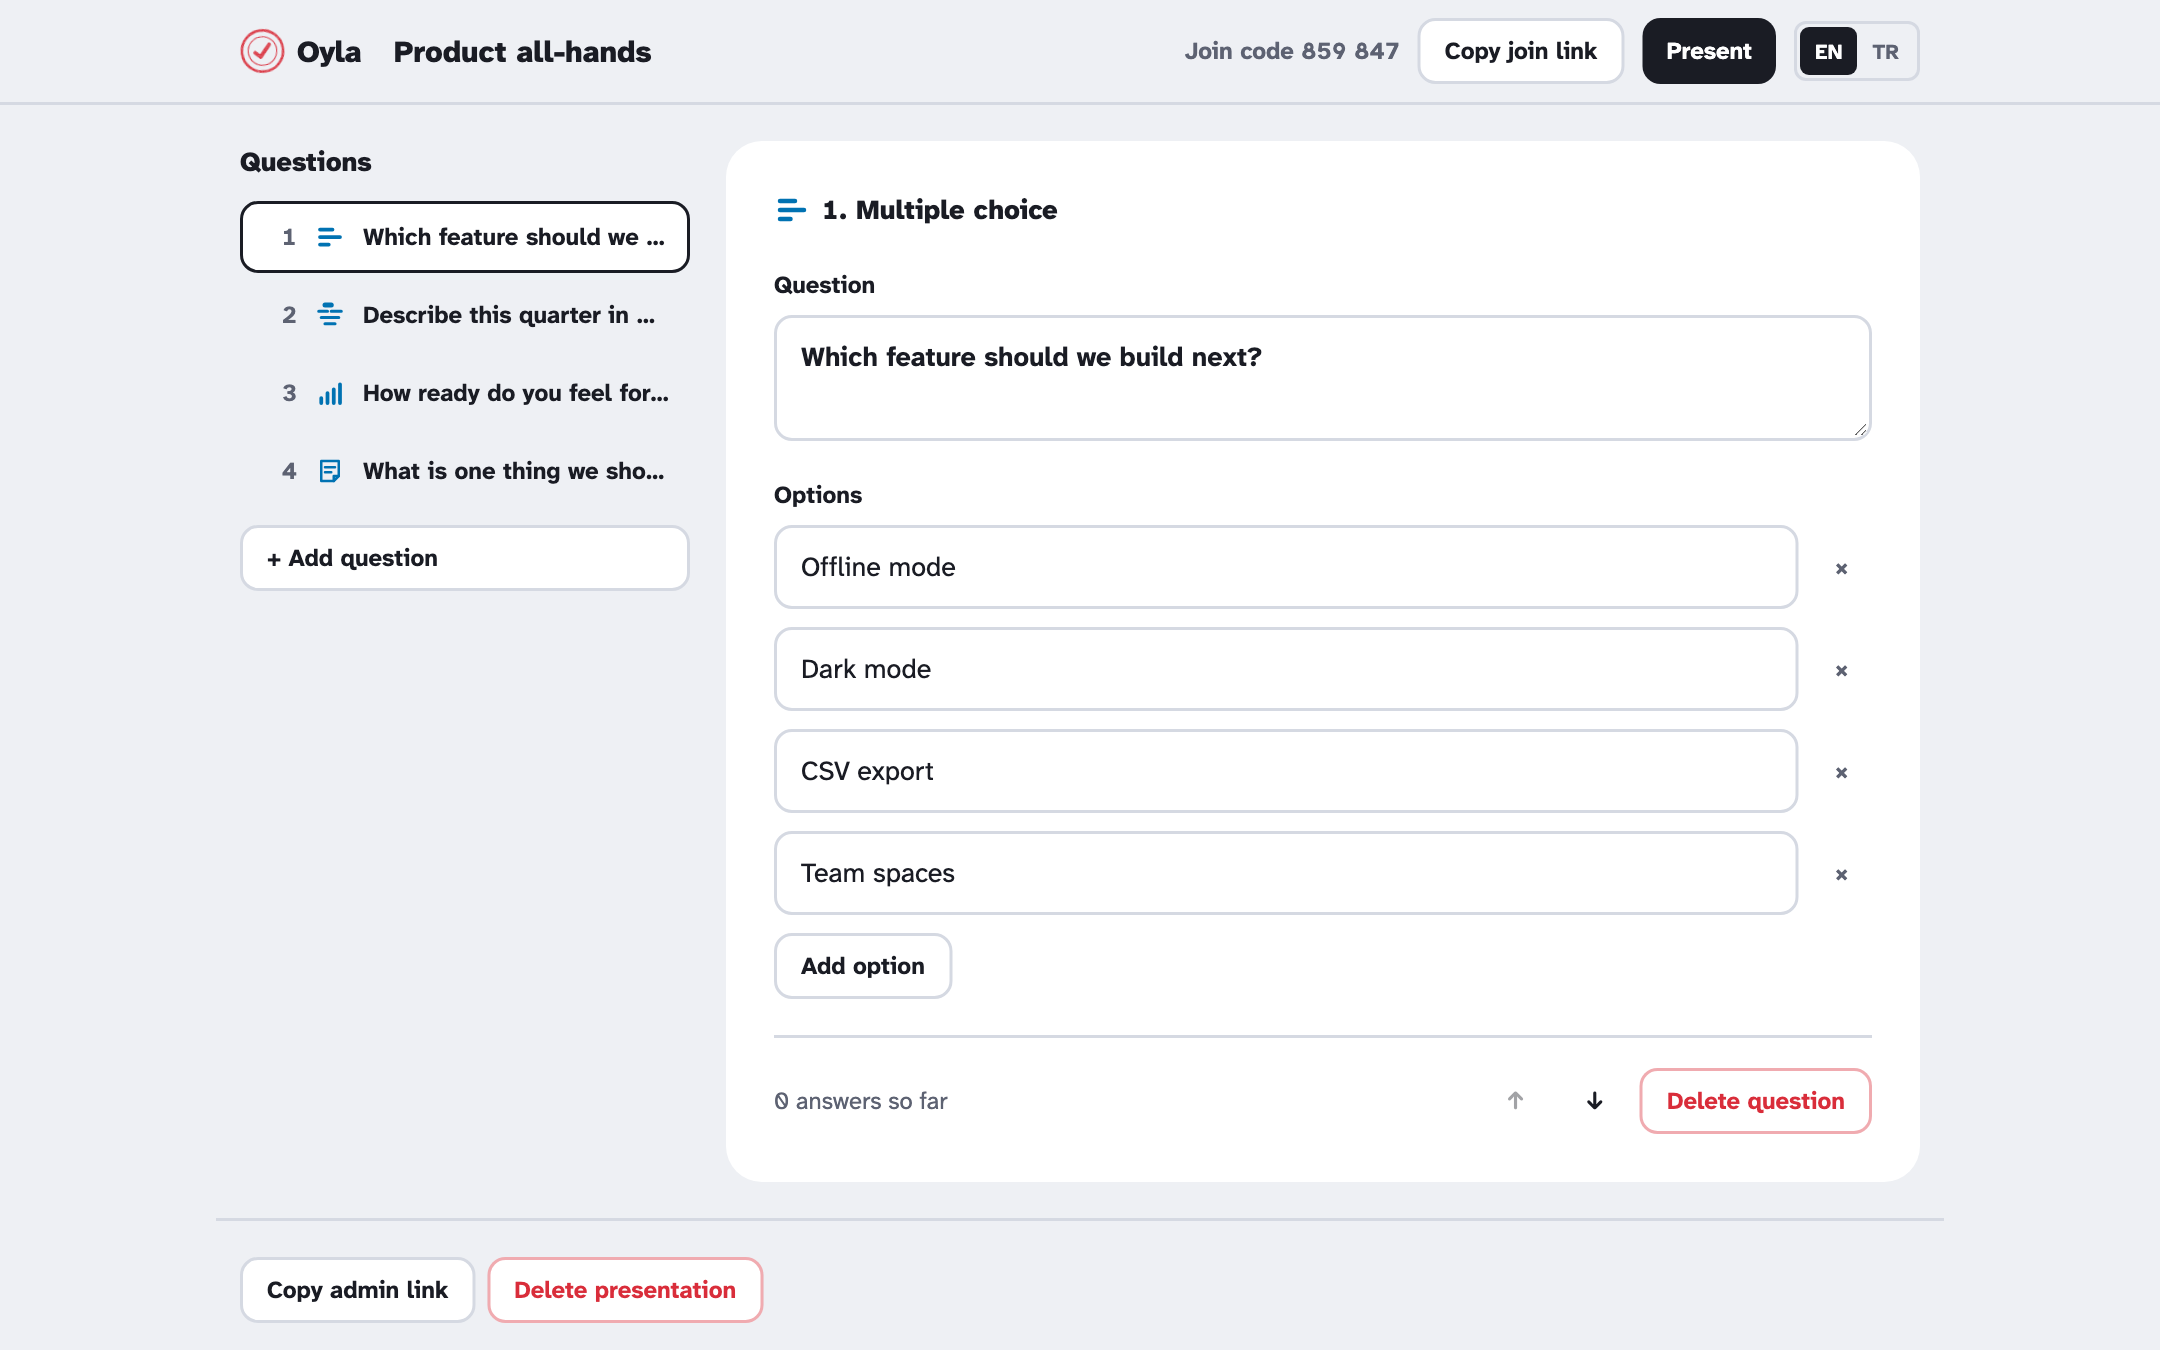
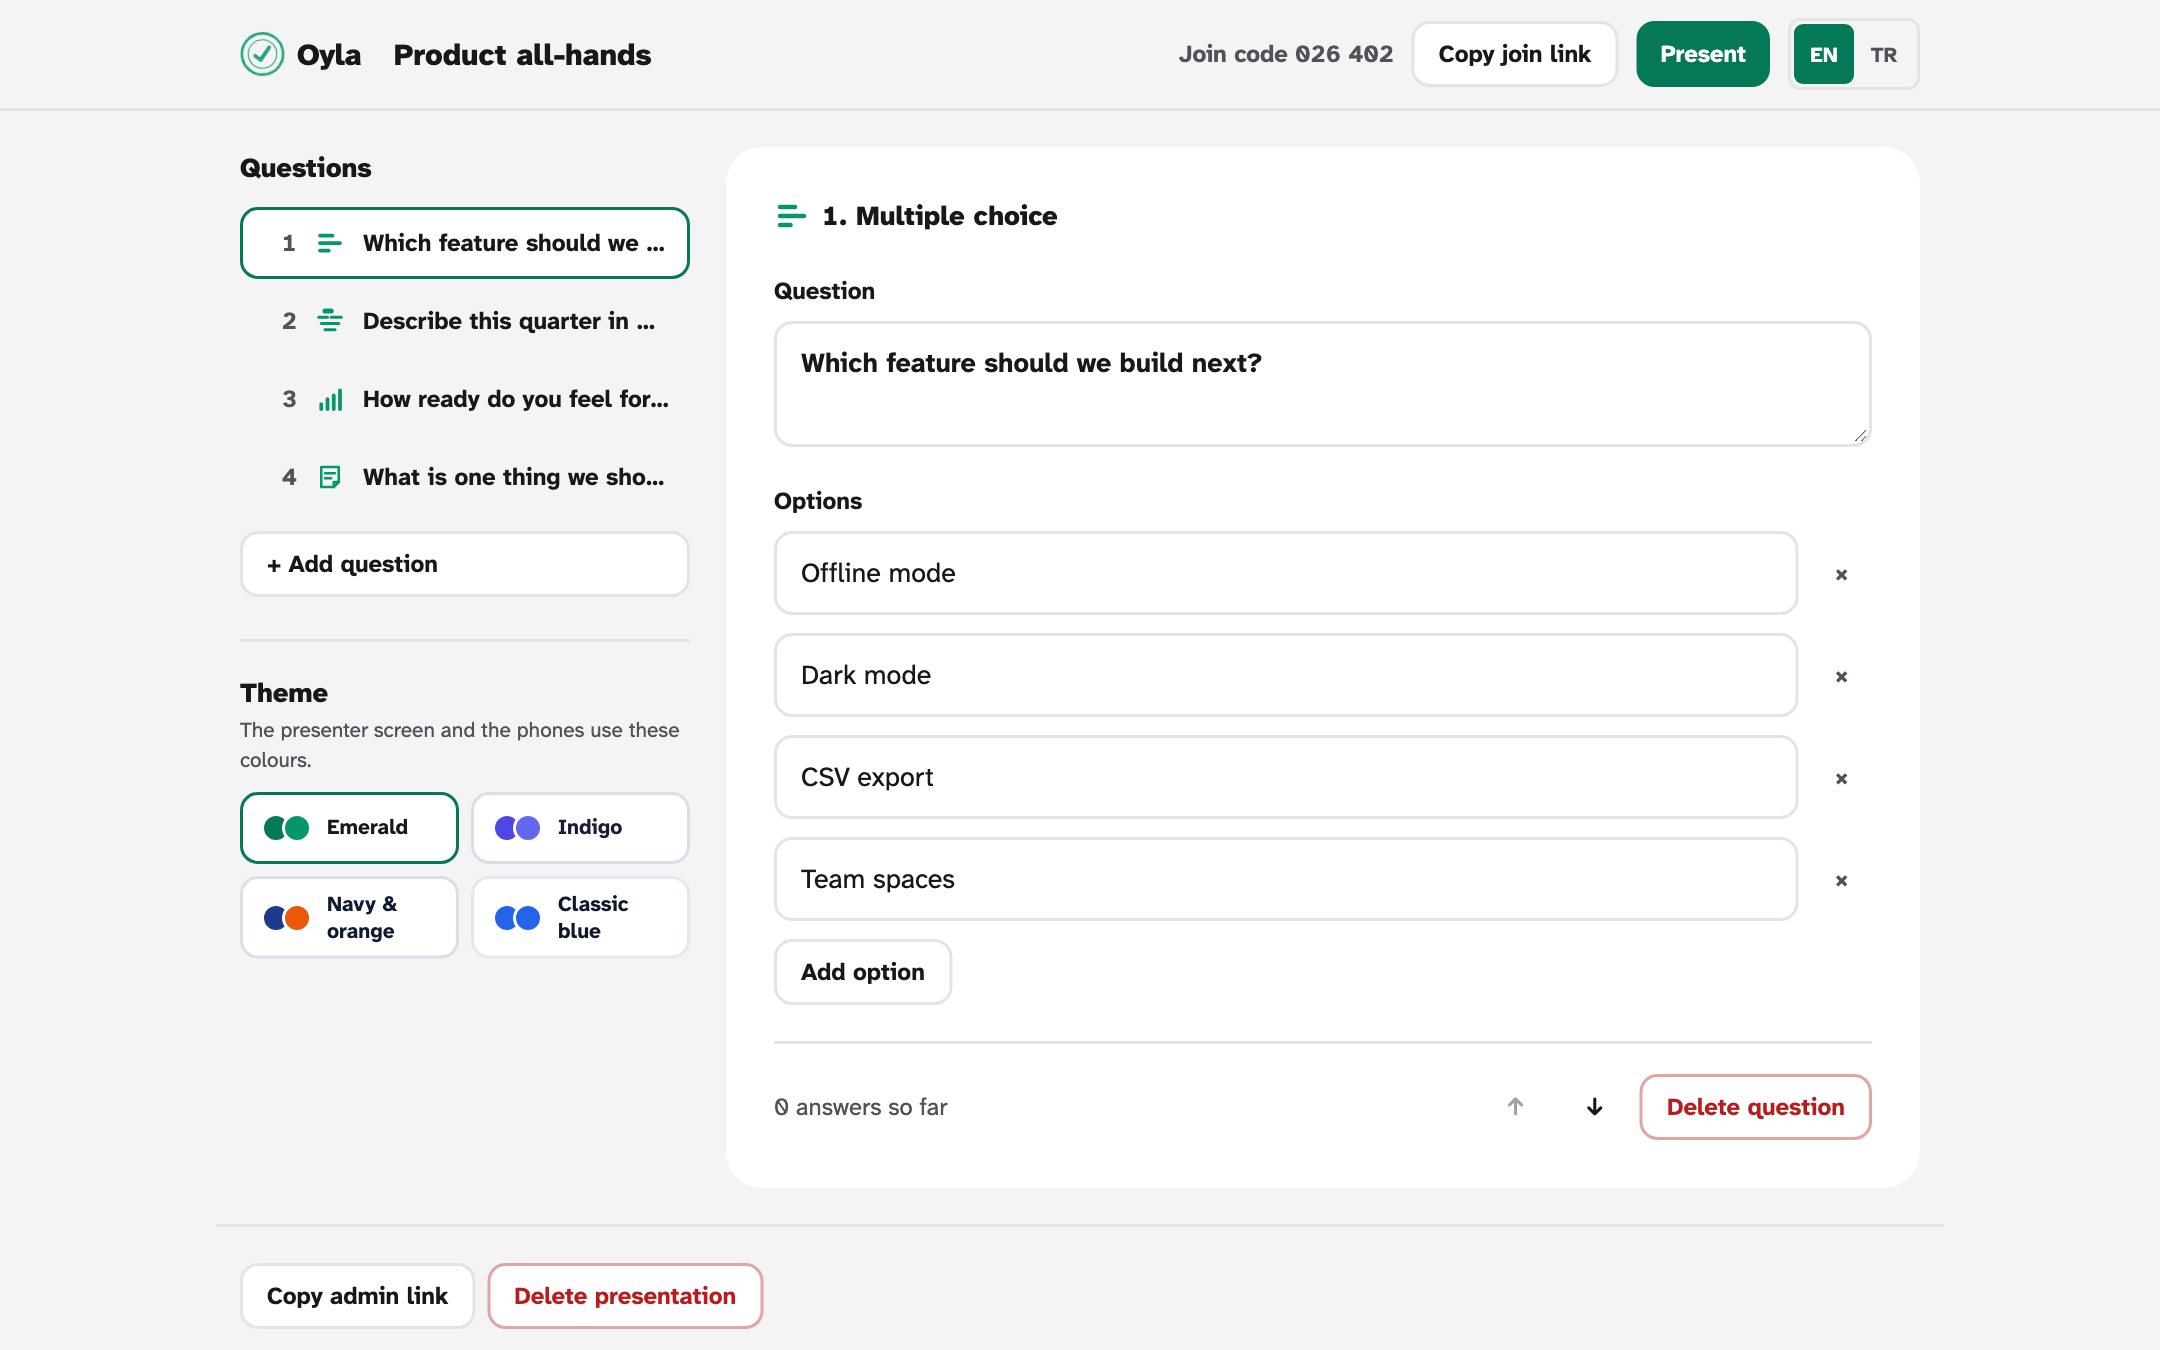
feat(products): Oyla is self-hosted; link its site and show the new look
- No public instance: drop the live-app link, point to the product and
  documentation site at oyla.mefby.com, status "Open source"
- When a product has no app link, its docs link becomes the primary button
  and the footer shows the docs host
- New screenshots (emerald theme, theme picker) and a word-cloud figure;
  features mention themes and dark mode

diff --git a/constants.ts b/constants.ts
@@ -188,8 +188,8 @@ export const PRODUCTS: Product[] = [
     tagline: "Open-source live polls, word clouds and open questions for talks, classes and meetings.",
     metaTitle: "Oyla: open-source live polls and word clouds",
     summary: "Open-source live polls, word clouds and open questions. The audience joins from their phones with a 6-digit code, no accounts or app. MIT licensed.",
-    description: "Your audience joins from their phones with a 6-digit code or a QR code, with no accounts and no app to install, and their answers appear live on your screen. \u201COyla\u201D means \u201Cvote!\u201D in Turkish.",
-    status: "Live",
+    description: "Your audience joins from their phones with a 6-digit code or a QR code, with no accounts and no app to install, and their answers appear live on your screen. You run it on your own computer or server. \u201COyla\u201D means \u201Cvote!\u201D in Turkish.",
+    status: "Open source",
     launched: "2026-10",
     license: "MIT",
     languages: ["EN", "TR"],
@@ -198,8 +198,9 @@ export const PRODUCTS: Product[] = [
       "The audience joins from their phones with a 6-digit code or a QR code. No accounts, no app.",
       "Four question types: multiple choice, word cloud, open question and scale.",
       "Results update live on the presenter screen as answers come in.",
-      "English and Turkish interface.",
-      "Self-hostable as one Docker container: Node.js, Fastify, Socket.IO, SQLite and React.",
+      "Four colour themes per presentation; phones follow the presenter's choice.",
+      "English and Turkish interface, light and dark mode.",
+      "Self-hosted: one Docker container with Node.js, Fastify, Socket.IO, SQLite and React.",
       "Open source under the MIT license."
     ],
     steps: [
@@ -209,7 +210,7 @@ export const PRODUCTS: Product[] = [
       },
       {
         title: "Share the code",
-        body: "Put the presenter screen up. People open oyla.mefby.com on their phones and type the 6-digit code, or scan the QR code."
+        body: "Put the presenter screen up. People open your Oyla server on their phones and type the 6-digit code, or scan the QR code."
       },
       {
         title: "Watch answers arrive",
@@ -217,9 +218,8 @@ export const PRODUCTS: Product[] = [
       }
     ],
     links: {
-      app: "https://oyla.mefby.com",
-      source: "https://github.com/mftnakrsu/oyla",
-      docs: "https://mftnakrsu.github.io/oyla/"
+      docs: "https://oyla.mefby.com",
+      source: "https://github.com/mftnakrsu/oyla"
     },
     image: {
       src: "/products/oyla/present-results.png",
@@ -237,12 +237,12 @@ export const PRODUCTS: Product[] = [
         images: [
           {
             src: "/products/oyla/editor.png",
-            alt: "The Oyla editor with a list of four questions on the left and a multiple-choice question with four options being edited on the right",
+            alt: "The Oyla editor with four questions and the theme picker on the left and a multiple-choice question with four options being edited on the right",
             width: 2160,
             height: 1350
           }
         ],
-        caption: "The editor. Add questions, reorder them and copy the join link."
+        caption: "The editor. Add questions, reorder them, pick a theme and copy the join link."
       },
       {
         images: [
@@ -254,7 +254,7 @@ export const PRODUCTS: Product[] = [
           },
           {
             src: "/products/oyla/phone-thanks.png",
-            alt: "A phone screen with a red \u201Cvoted\u201D stamp and the message \u201CAnswer sent\u201D",
+            alt: "A phone screen with a green \u201Cvoted\u201D stamp and the message \u201CAnswer sent\u201D",
             width: 1170,
             height: 1992
           }
@@ -271,6 +271,17 @@ export const PRODUCTS: Product[] = [
           }
         ],
         caption: "The presenter screen. Bars fill up as votes come in; the join code stays at the top."
+      },
+      {
+        images: [
+          {
+            src: "/products/oyla/word-cloud.png",
+            alt: "A word cloud on the presenter screen: \u201Cmomentum\u201D largest in the middle, other words smaller, some of them written vertically",
+            width: 2160,
+            height: 1350
+          }
+        ],
+        caption: "A word cloud. The more people give a word, the bigger it gets."
       }
     ]
   }
